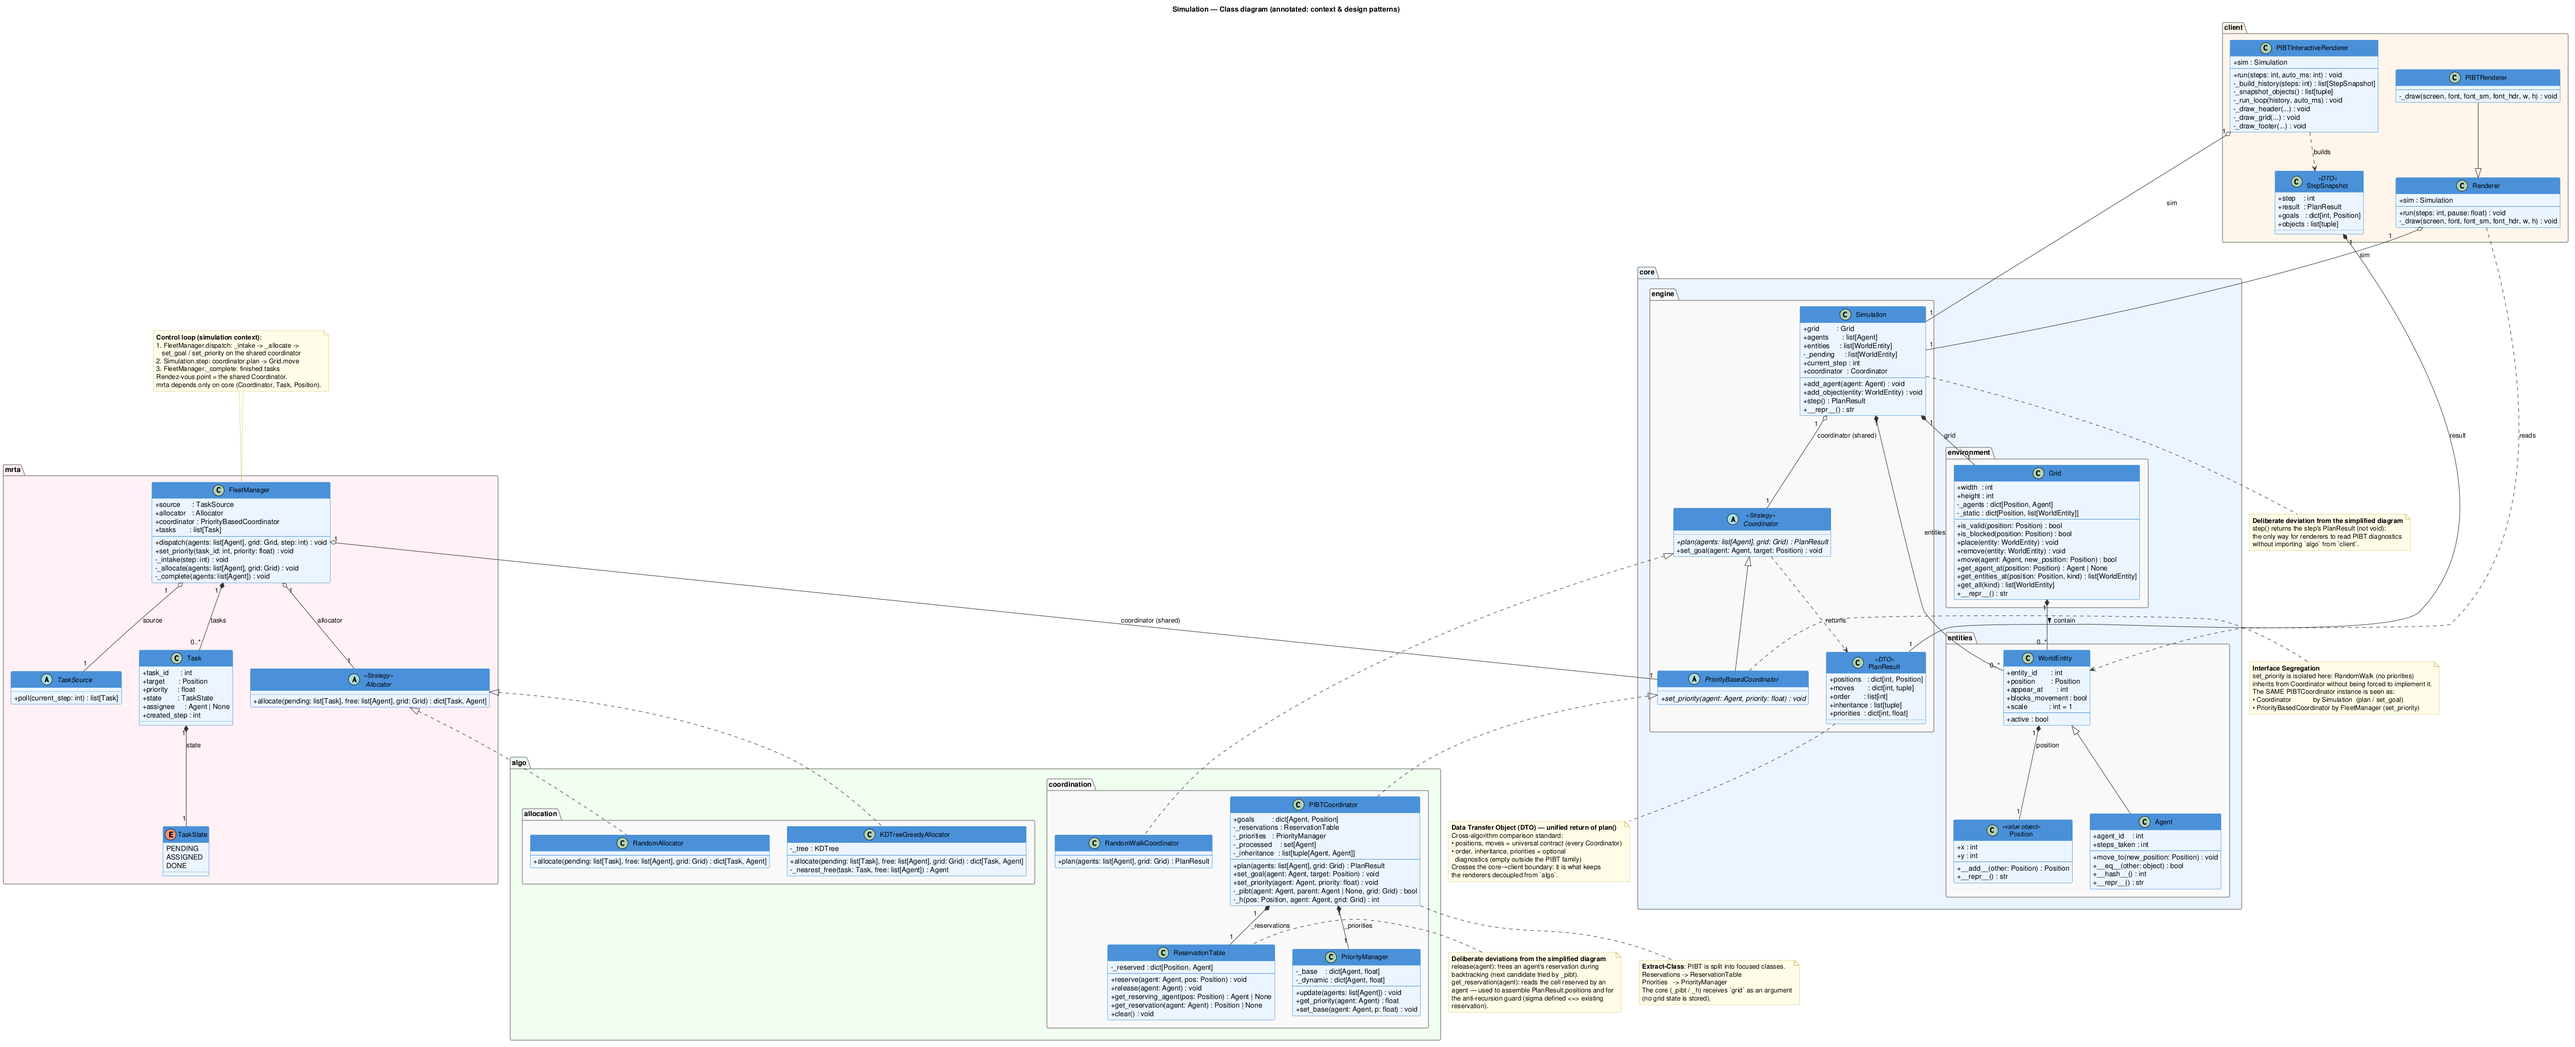
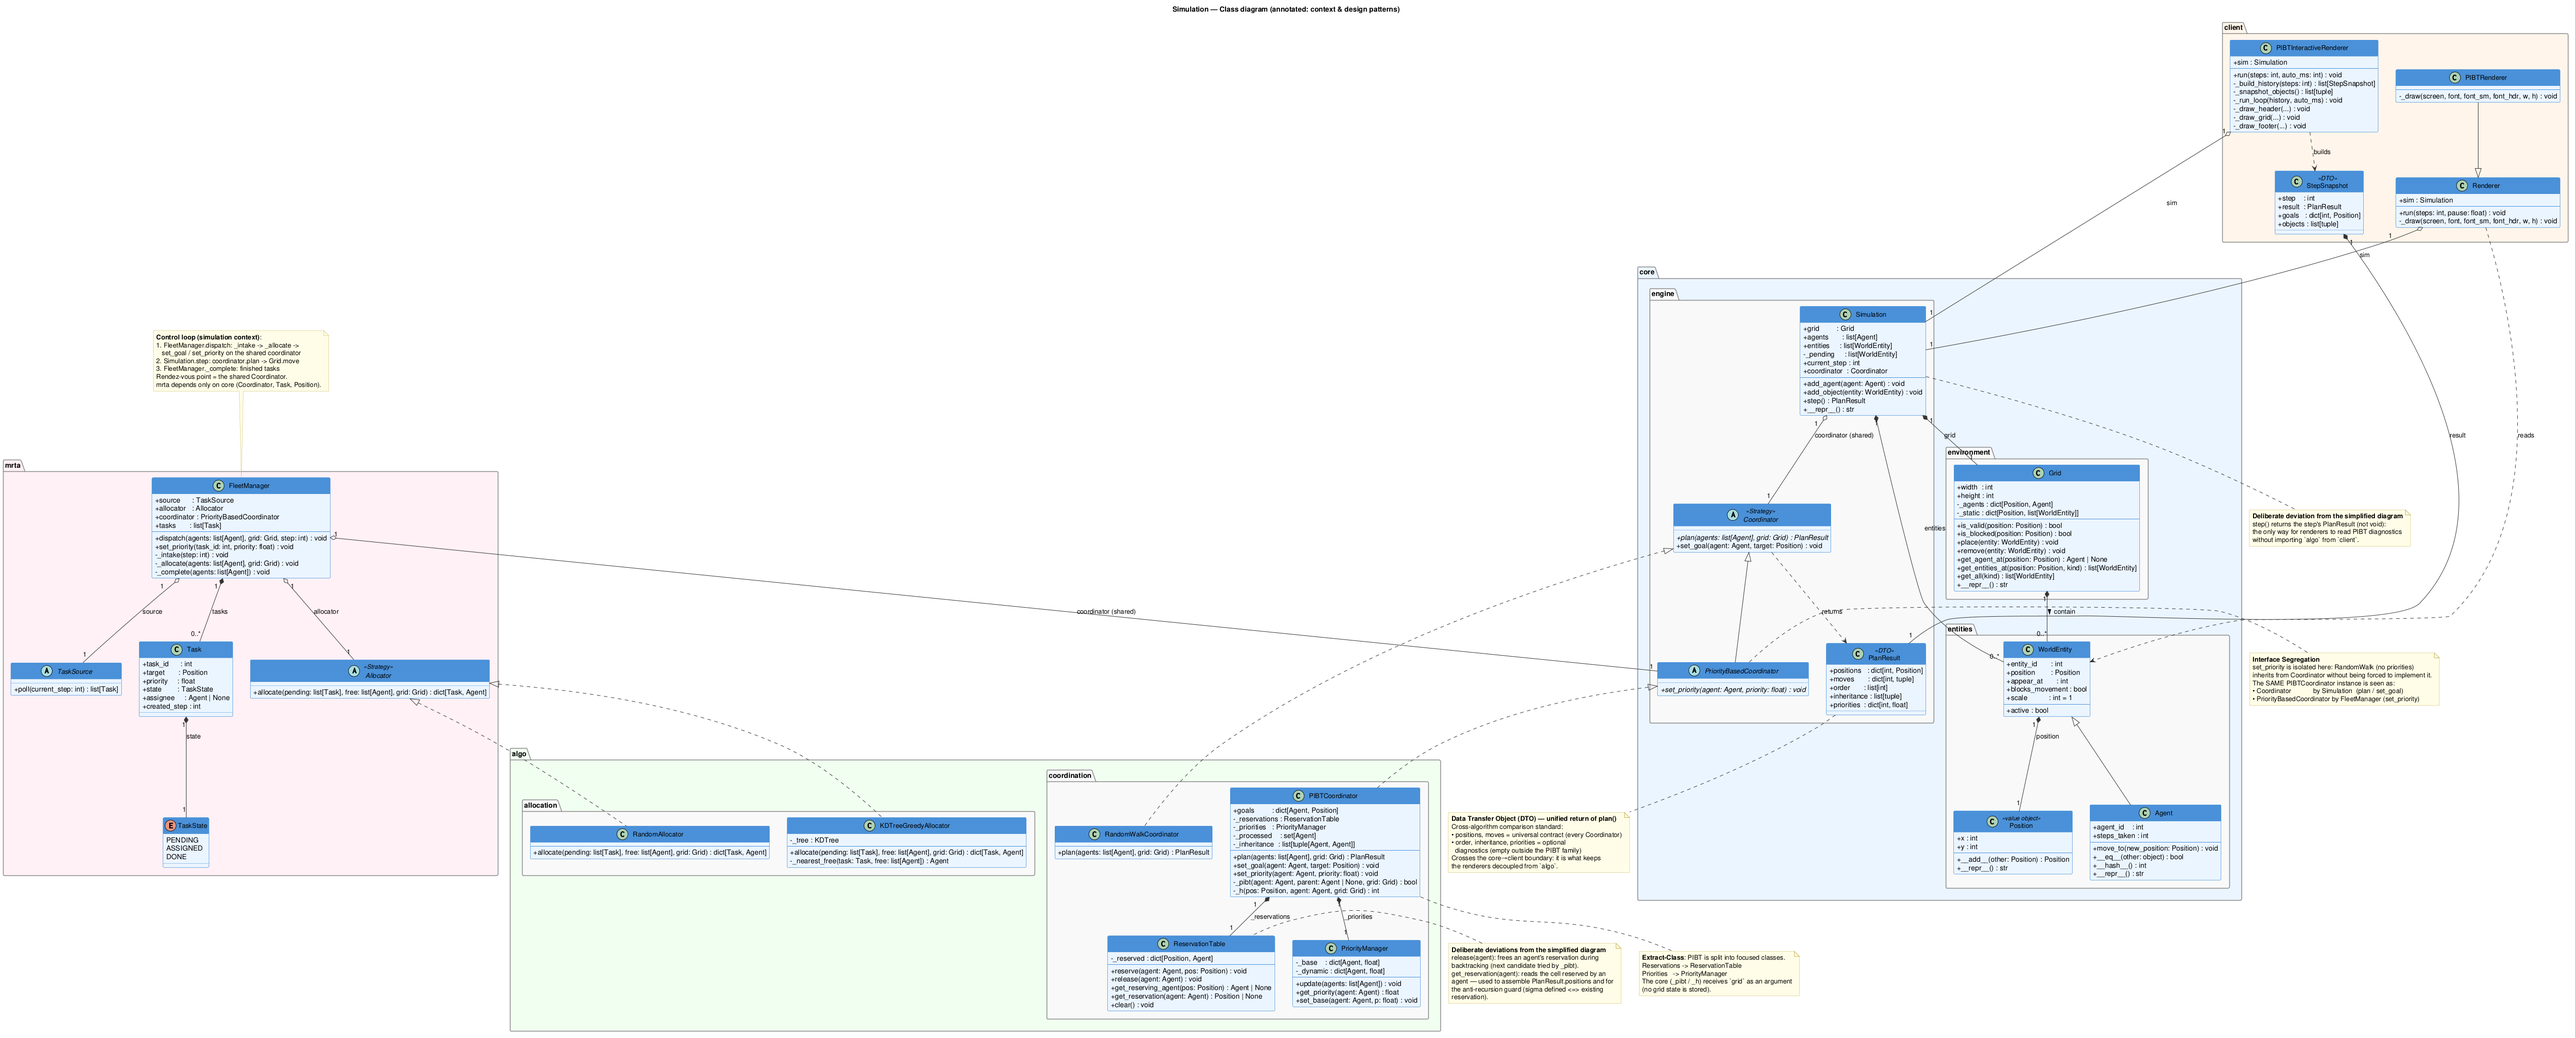
refactor(core): remove dead Grid.move method
Grid.move had no caller: Simulation.step() applies moves with its own
lift-then-place transaction (grid.remove -> agent.move_to -> grid.place)
to handle simultaneous swaps, and never went through Grid.move. Drop it
so the engine has a single, unambiguous mover. Class diagram updated.

diff --git a/core/environment/grid.py b/core/environment/grid.py
@@ -45,14 +45,6 @@ class Grid:
             if not bucket:
                 self._static.pop(entity.position, None)
 
-    def move(self, agent: Agent, new_position: Position) -> bool:
-        if not self.is_valid(new_position) or self.is_blocked(new_position):
-            return False
-        self.remove(agent)
-        agent.move_to(new_position)
-        self._agents[new_position] = agent
-        return True
-
     def get_agent_at(self, position: Position) -> Optional[Agent]:
         return self._agents.get(position)
 
